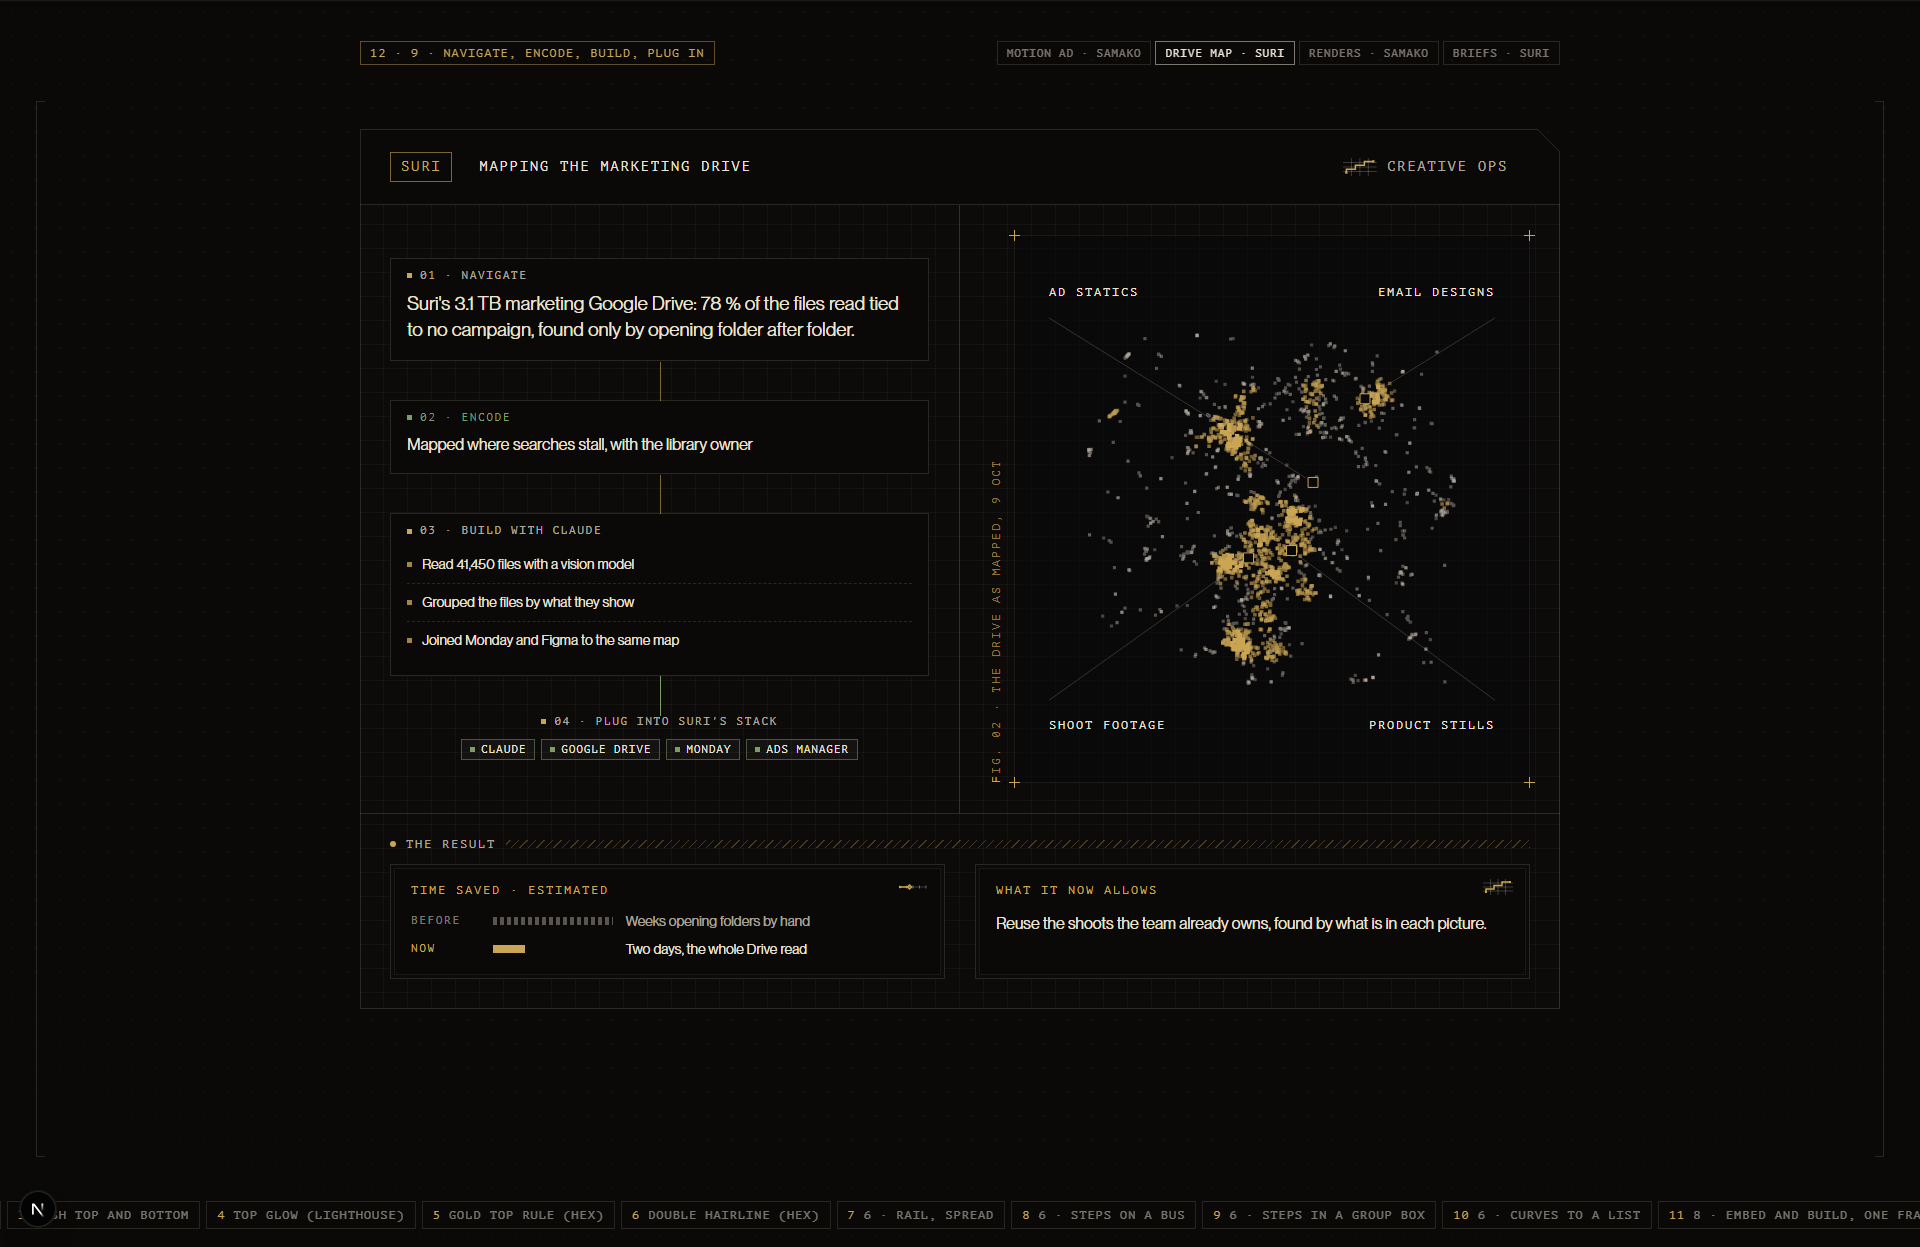
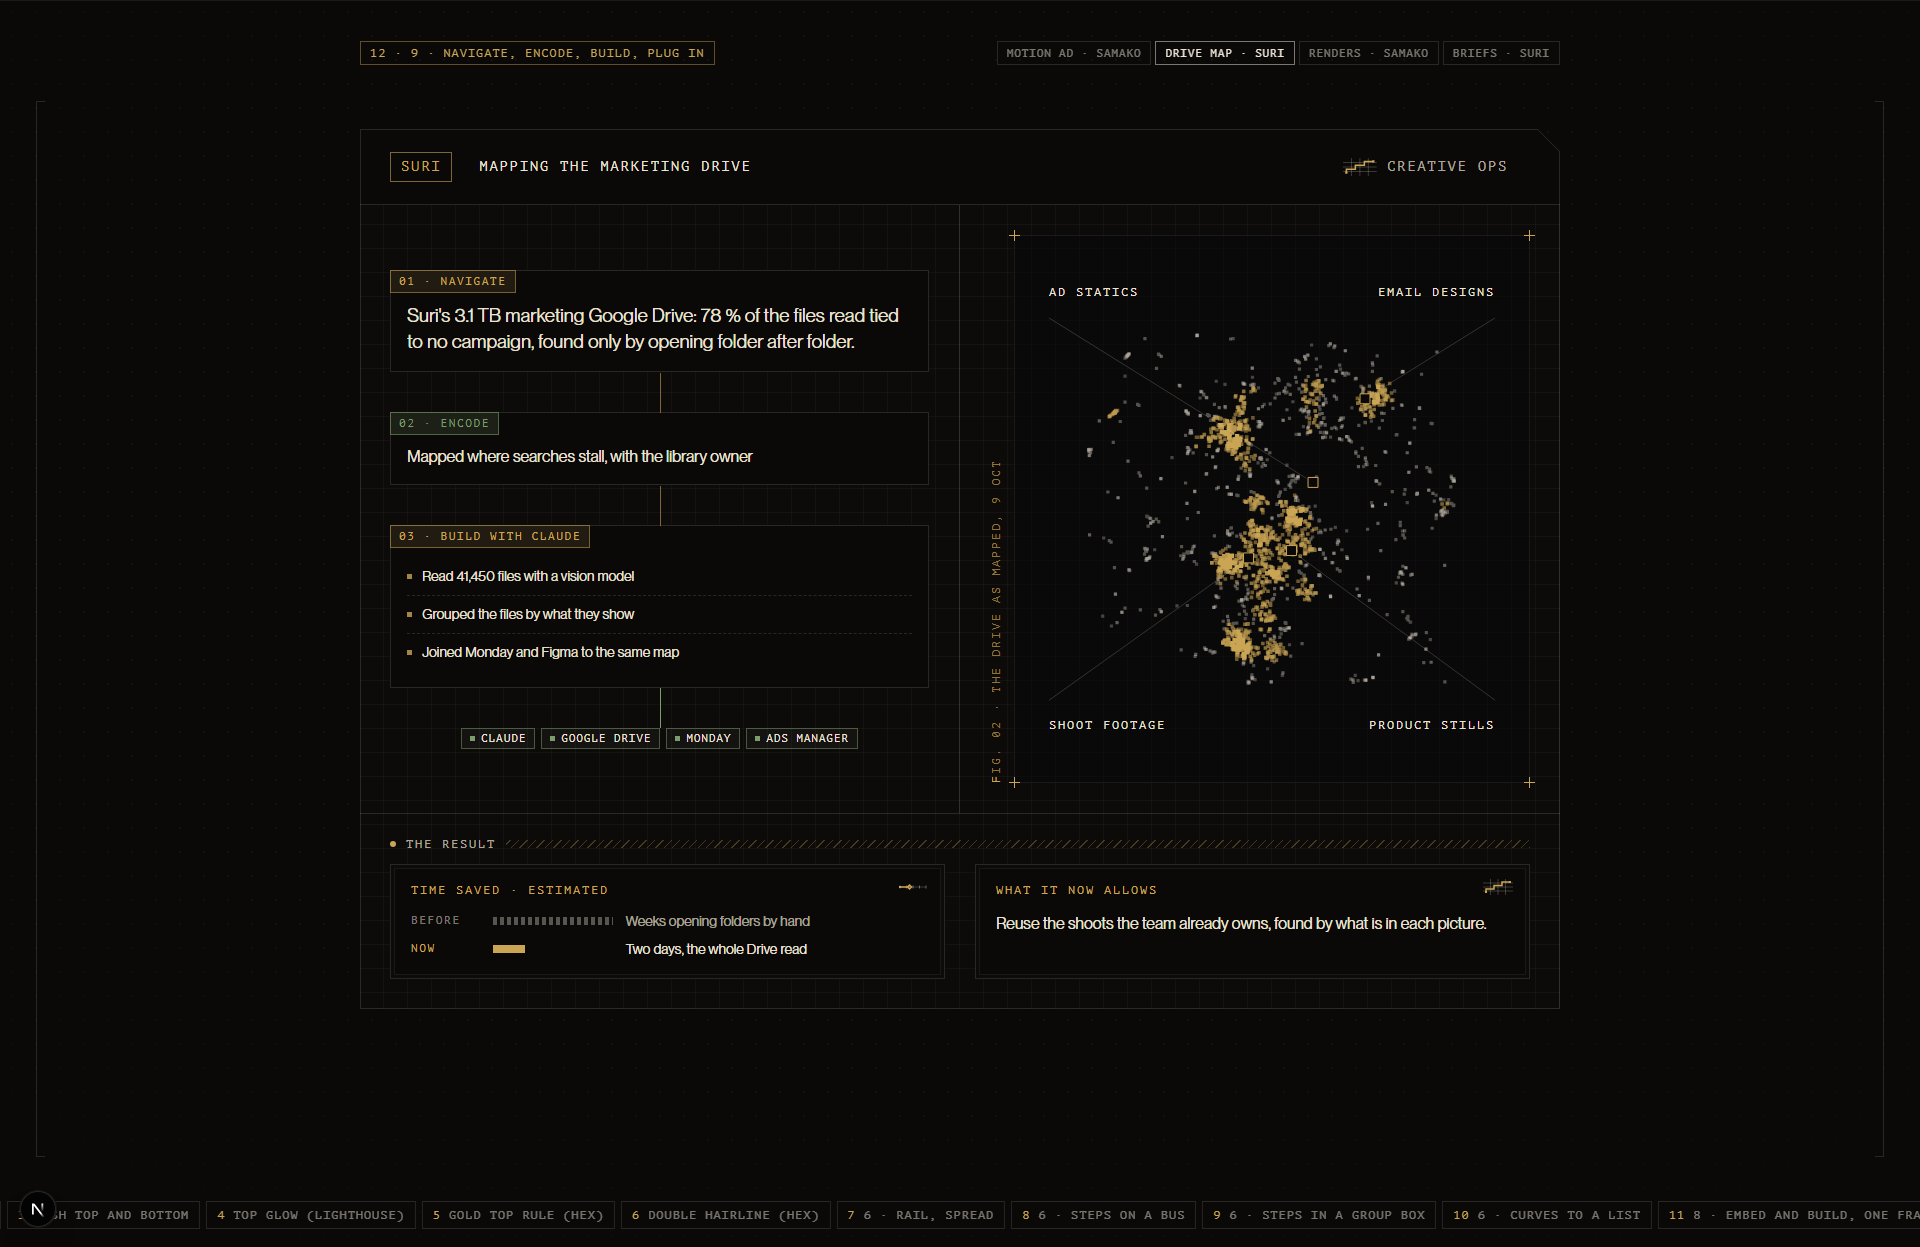
feat(test): card-skins 12, the corner tabs back, no stack label

Changed region(s): [[0.1875, 0.3352, 0.4062, 0.5485], [0.1875, 0.2133, 0.4688, 0.3047], [0.25, 0.579, 0.4375, 0.6095]]

diff --git a/app/(internal)/test/card-skins/LeftPanels.tsx b/app/(internal)/test/card-skins/LeftPanels.tsx
@@ -240,29 +240,20 @@ function Unified({ job, tools }: { job: Job; tools: readonly string[] }) {
  *  the vision section's plug-in. 01 Navigate holds the brief, 02 Encode the
  *  embed (green, the team's, as the vision's "Embed in your team"), 03 Build
  *  what Claude did, 04 the stack it plugs into; every label in the vision
- *  section's own form (a square, the number, the word), none filled. */
+ *  tab in its top-left corner, as the other cards' tabs. */
 function ArcFlow({ job, tools }: { job: Job; tools: readonly string[] }) {
   return (
     <>
       <div className="pk-c__box pk-l__arc-box">
-        <p className="pk-l__arc-tab">
-          <i />
-          01 · Navigate
-        </p>
+        <p className="pk-c__tab pk-l__arc-tab">01 · Navigate</p>
         <p className="pk-lede">{job.ask}</p>
       </div>
       <div className="pk-c__box pk-l__arc-box" data-kind="team">
-        <p className="pk-l__arc-tab">
-          <i />
-          02 · Encode
-        </p>
+        <p className="pk-c__tab pk-l__arc-tab">02 · Encode</p>
         <p className="pk-body">{job.embed}</p>
       </div>
       <div className="pk-c__box pk-l__arc-box">
-        <p className="pk-l__arc-tab">
-          <i />
-          03 · Build with Claude
-        </p>
+        <p className="pk-c__tab pk-l__arc-tab">03 · Build with Claude</p>
         <ol className="pk-l__arc-steps" aria-label="Claude did">
           {job.did.map((t) => (
             <li key={t}>{t}</li>
@@ -270,10 +261,6 @@ function ArcFlow({ job, tools }: { job: Job; tools: readonly string[] }) {
         </ol>
       </div>
       <div className="pk-l__arc-stack">
-        <p className="pk-l__arc-tab pk-l__arc-tab--bare">
-          <i />
-          04 · Plug into {job.client}&apos;s stack
-        </p>
         <ul className="pk-i__tools pk-l__tools" aria-label="Plugs into">
           {tools.map((t) => (
             <li key={t}>{t}</li>

diff --git a/app/(internal)/test/card-skins/left-panels.css b/app/(internal)/test/card-skins/left-panels.css
@@ -450,27 +450,14 @@
 .pk-l .pk-l__arc-box {
   padding: 32px 16px 16px;
 }
-.pk-l__arc-tab {
-  position: absolute;
-  top: 11px;
-  left: 16px;
-  display: flex;
-  align-items: center;
-  gap: 8px;
-  font: 400 calc(var(--pk-t-mono) * 0.92) / 1 var(--pk-mono);
-  letter-spacing: 0.15em;
-  text-transform: uppercase;
-  color: var(--pk-ink-2);
-}
-.pk-l__arc-tab i {
-  width: 5px;
-  height: 5px;
-  background: var(--pk-gold);
-}
-.pk-l__arc-box[data-kind="team"] .pk-l__arc-tab i {
-  background: var(--pk-green);
+.pk-l .pk-l__arc-tab {
+  border-color: rgba(var(--pk-gold-rgb), 0.5);
+  background: rgba(var(--pk-gold-rgb), 0.12);
+  color: var(--pk-gold);
 }
 .pk-l__arc-box[data-kind="team"] .pk-l__arc-tab {
+  border-color: rgba(var(--pk-green-rgb), 0.55);
+  background: rgba(var(--pk-green-rgb), 0.16);
   color: var(--pk-green);
 }
 .pk-l__arc-steps {
